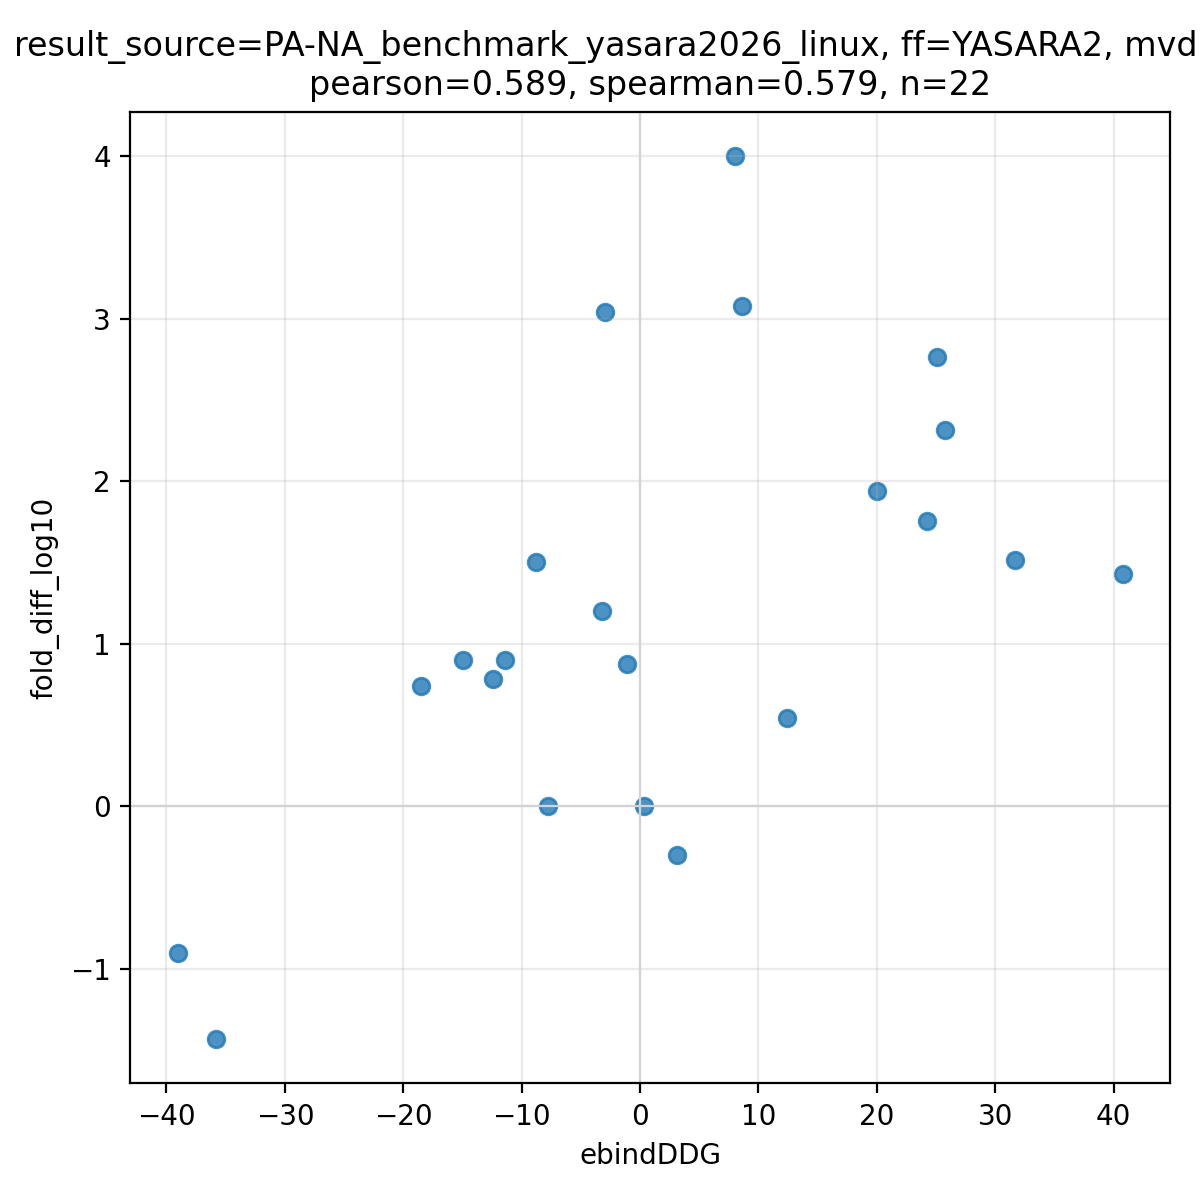
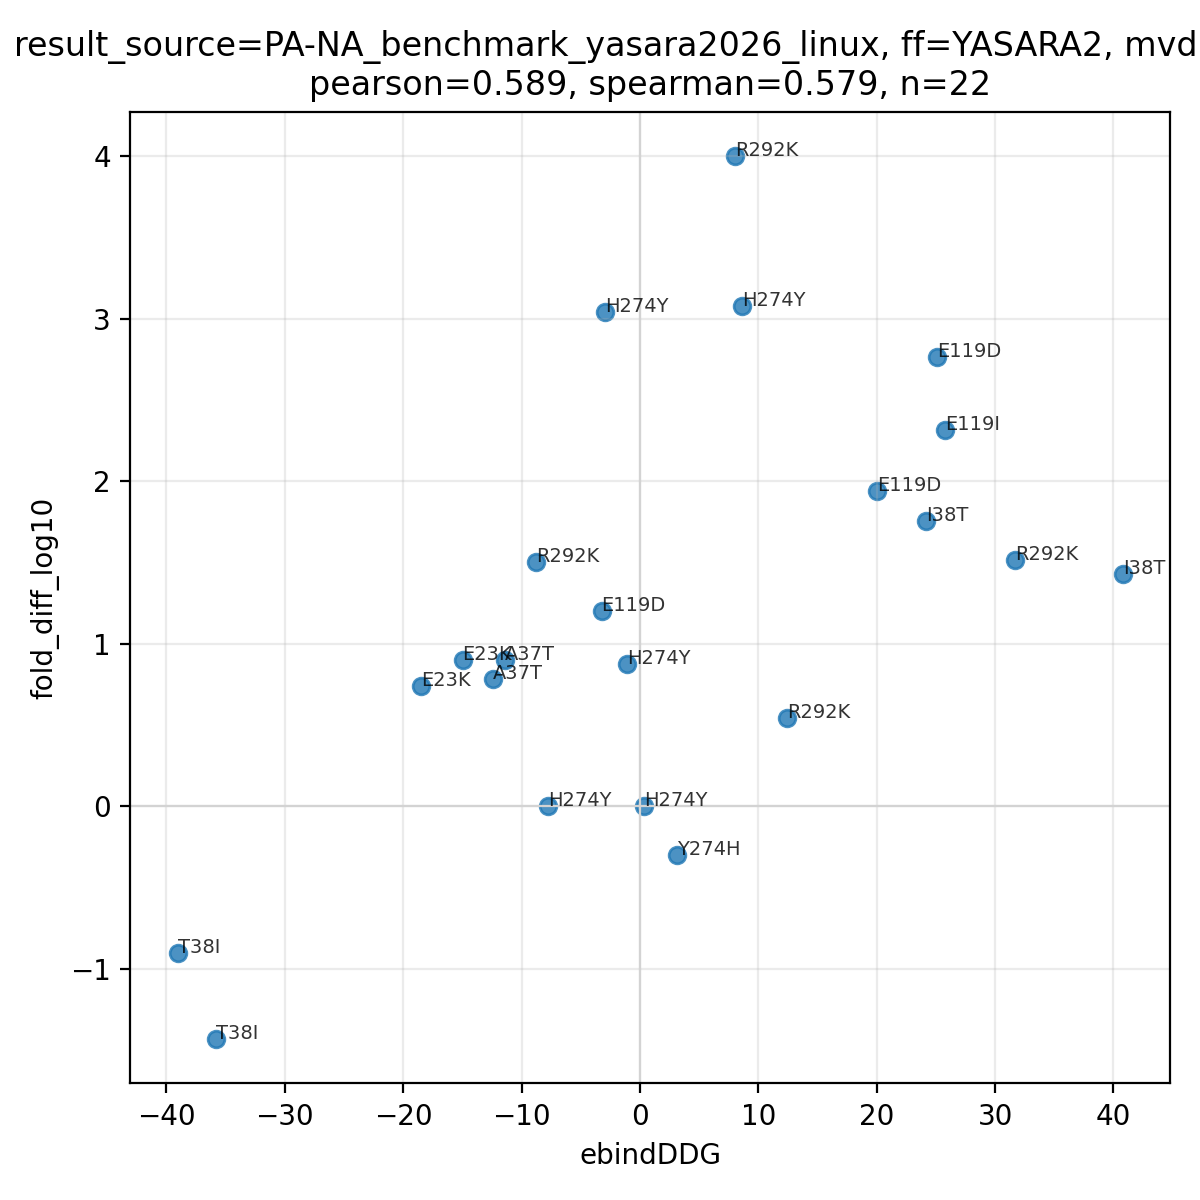
updates analysis to add Rsquared score

diff --git a/tools/visualize_results.py b/tools/visualize_results.py
@@ -39,7 +39,7 @@ EXPERIMENTAL_SUPPORT_COLUMNS = [
     "chain_id",
     "keep_multiple_chains_in_struct",
 ]
-SUMMARY_SORT_COLUMNS = ["abs_spearman", "abs_pearson"]
+SUMMARY_SORT_COLUMNS = ["r_squared", "abs_spearman", "abs_pearson"]
 CORE_OUTPUT_FILENAMES = {
     "calc_wide": "calculation_results_merged_wide.csv",
     "merged_chain_averaged": "calculation_vs_experiment_chain_averaged.csv",
@@ -262,16 +262,19 @@ def compute_correlation_metrics(
             "n_points": n_points,
             "pearson": math.nan,
             "spearman": math.nan,
+            "r_squared": math.nan,
         }
 
     x_values = work_df[x_column]
     y_values = work_df[y_column]
     pearson = x_values.corr(y_values, method="pearson")
     spearman = x_values.corr(y_values, method="spearman")
+    r_squared = pearson**2 if pd.notna(pearson) else math.nan
     return {
         "n_points": n_points,
         "pearson": pearson,
         "spearman": spearman,
+        "r_squared": r_squared,
     }
 
 
@@ -388,6 +391,7 @@ def analyze_segments(
                 "n_points",
                 "pearson",
                 "spearman",
+                "r_squared",
                 "abs_pearson",
                 "abs_spearman",
             ]
@@ -416,7 +420,7 @@ def plot_segment_grid(
     annotate_points: bool = False,
     annotation_column: str = "mutations",
 ) -> None:
-    segment_records = get_segment_records(summary_df, segment_columns, ["n_points", "pearson", "spearman"])
+    segment_records = get_segment_records(summary_df, segment_columns, ["n_points", "pearson", "spearman", "r_squared"])
     if not segment_records:
         return
 
@@ -438,7 +442,10 @@ def plot_segment_grid(
             ax,
             x_column,
             y_column,
-            f"{segment_label}\npearson={record['pearson']:.3f}, spearman={record['spearman']:.3f}, n={record['n_points']}",
+            (
+                f"{segment_label}\n"
+                f"pearson={record['pearson']:.3f}, spearman={record['spearman']:.3f}, n={record['n_points']}"
+            ),
         )
         ax.title.set_fontsize(10)
 
@@ -465,7 +472,7 @@ def plot_segment_individual(
     annotate_points: bool = False,
     annotation_column: str = "mutations",
 ) -> None:
-    segment_records = get_segment_records(summary_df, segment_columns, ["n_points", "pearson", "spearman"])
+    segment_records = get_segment_records(summary_df, segment_columns, ["n_points", "pearson", "spearman", "r_squared"])
     for record in segment_records:
         segment_df = filter_segment_df(df, record, segment_columns)
         filename_stub = "__".join(
@@ -820,7 +827,7 @@ def run_analysis(
     overall_summary_df = pd.concat([raw_summary_df, averaged_summary_df], axis=0, ignore_index=True, sort=False)
     overall_summary_df = overall_summary_df.sort_values(
         ["analysis_level", *SUMMARY_SORT_COLUMNS],
-        ascending=[True, False, False],
+        ascending=[True, False, False, False],
     ).reset_index(drop=True)
 
     outputs = {
@@ -909,7 +916,7 @@ if __name__ == "__main__":
     output_subdir = "analysis"
     output_prefix = "PA-NA_benchmark_"
     make_plots = True
-    annotate_points = False
+    annotate_points = True
     save_intermediate_tables = False
     plot_mode = "individual" # "grid" #
     subplots_per_row = 3